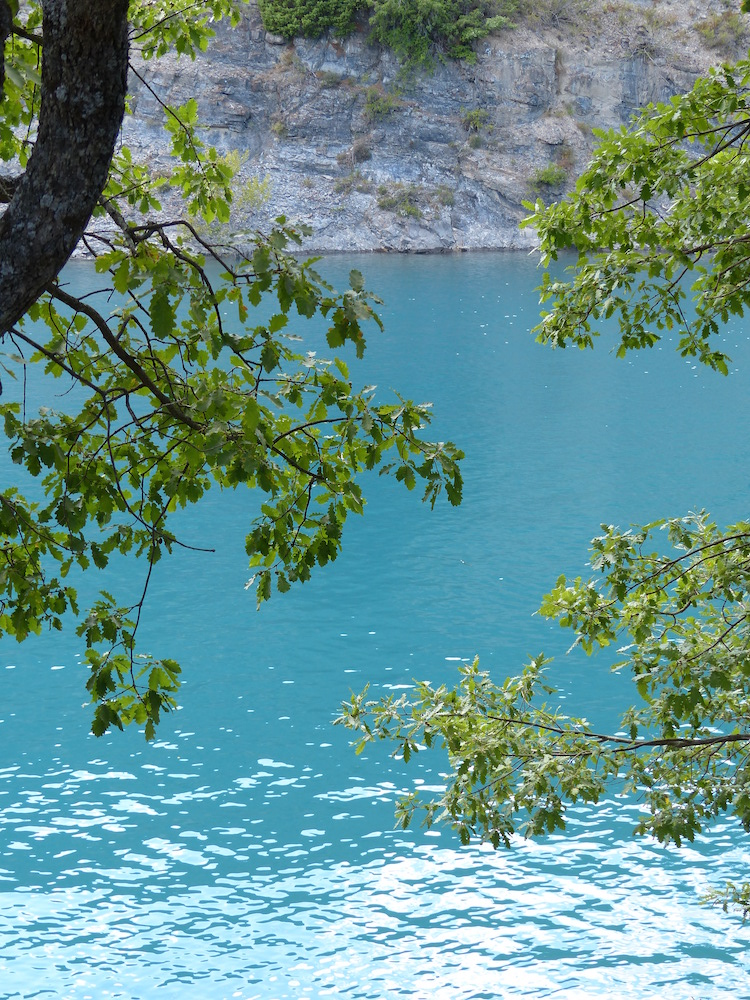
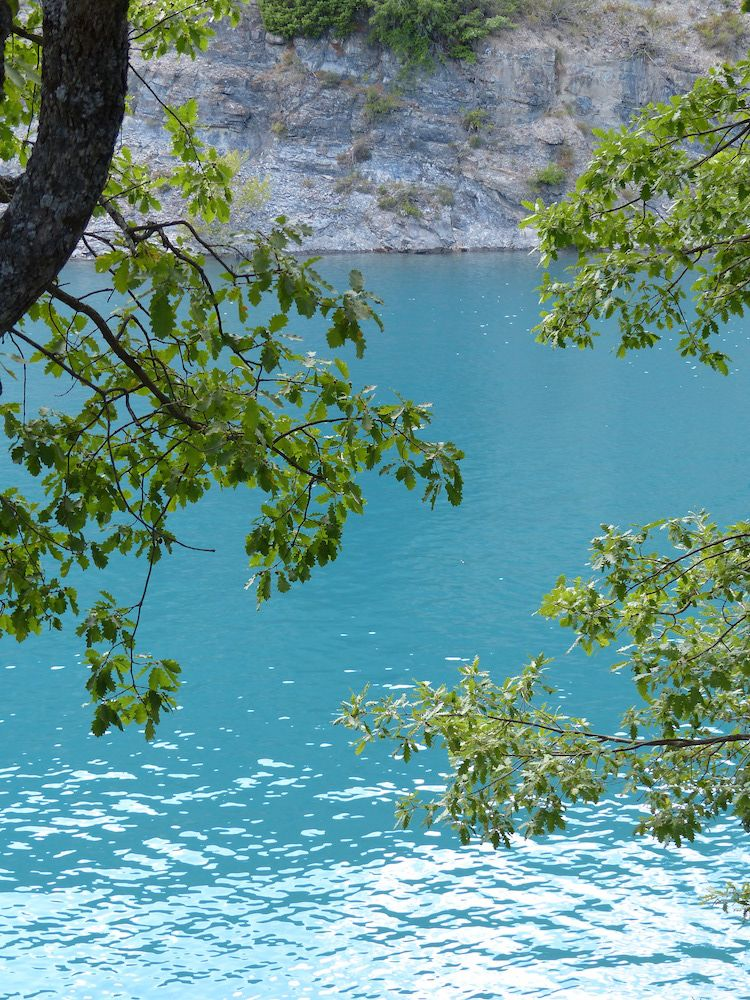
Improve background image

diff --git a/_drafts/why-you-should-at-least-try-firebase.md b/_drafts/why-you-should-at-least-try-firebase.md
@@ -1,0 +1,6 @@
+---
+layout: post
+title:  "Why you should at least try Firebase"
+date:   2015-01-07 22:00:37
+categories: firebase javascript
+---
